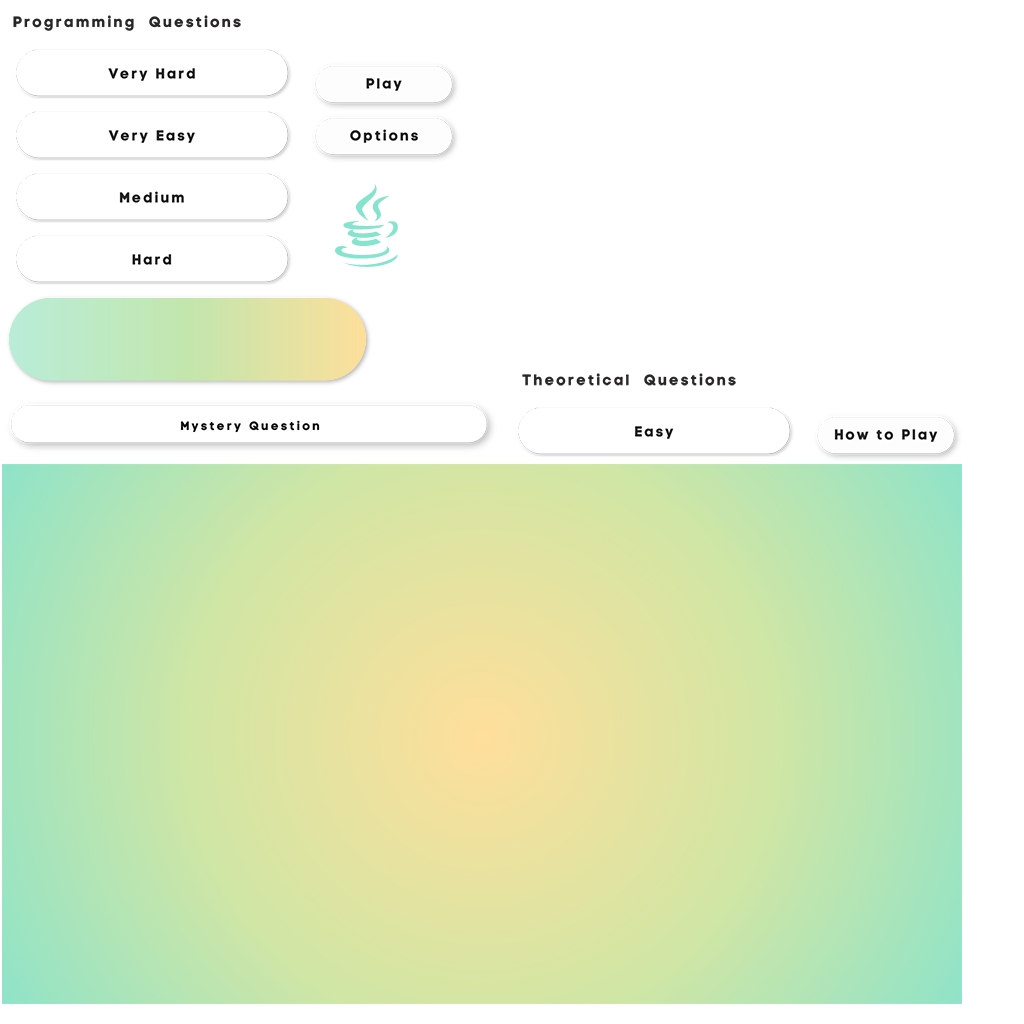
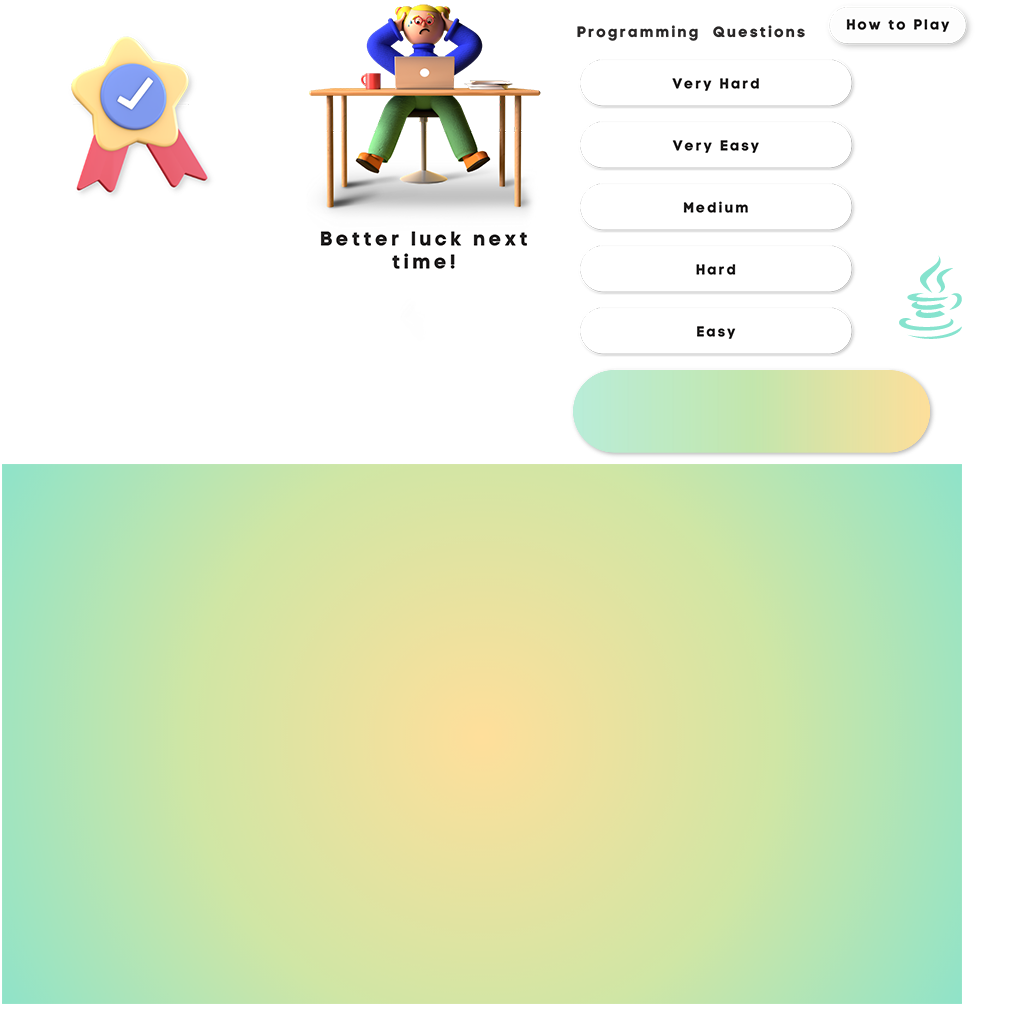
Add game over and correct answer screen

diff --git a/core/src/com/mygdx/game/CorrectAnswerScreen.java b/core/src/com/mygdx/game/CorrectAnswerScreen.java
@@ -1,0 +1,80 @@
+package com.mygdx.game;
+
+import com.badlogic.gdx.Gdx;
+import com.badlogic.gdx.InputAdapter;
+import com.badlogic.gdx.Screen;
+import com.badlogic.gdx.graphics.GL20;
+import com.badlogic.gdx.graphics.OrthographicCamera;
+import com.badlogic.gdx.graphics.g2d.SpriteBatch;
+import com.badlogic.gdx.math.Vector2;
+import com.badlogic.gdx.utils.viewport.ExtendViewport;
+
+import util.Assets;
+import util.Constants;
+import util.Util;
+
+public class CorrectAnswerScreen extends InputAdapter implements Screen {
+    private ProgrammerGame programmerGame;
+    private SpriteBatch batch;
+    private ExtendViewport viewport;
+    private OrthographicCamera camera;
+
+    public CorrectAnswerScreen(ProgrammerGame programmerGame, SpriteBatch batch){
+        this.programmerGame = programmerGame;
+        this.batch = batch;
+        camera = new OrthographicCamera(Constants.WORLD_SIZE_WIDTH, Constants.WORLD_SIZE_HEIGHT);
+        viewport = new ExtendViewport(Constants.WORLD_SIZE_WIDTH, Constants.WORLD_SIZE_HEIGHT, camera);
+        camera.position.set(viewport.getWorldWidth() / 2f, viewport.getWorldHeight() / 2f, 0);
+    }
+
+    @Override
+    public void show() {
+        Gdx.input.setInputProcessor(this);
+    }
+
+    @Override
+    public void render(float delta) {
+        viewport.apply();
+        Gdx.gl.glClearColor(
+                Constants.BACKGROUND_COLOR.r,
+                Constants.BACKGROUND_COLOR.g,
+                Constants.BACKGROUND_COLOR.b,
+                Constants.BACKGROUND_COLOR.a);
+
+        Gdx.gl.glClear(GL20.GL_COLOR_BUFFER_BIT);
+
+        batch.setProjectionMatrix(viewport.getCamera().combined);
+
+        batch.begin();
+        //bg
+        Util.drawTextureRegion(batch, Assets.instance.correctAnswerScreenAssets.normalBG, new Vector2(viewport.getCamera().viewportWidth / 2, viewport.getCamera().viewportHeight / 2), Constants.BG_CENTER);
+        Util.drawTextureRegion(batch, Assets.instance.correctAnswerScreenAssets.correctAnswerBG, new Vector2(viewport.getCamera().viewportWidth / 2, viewport.getCamera().viewportHeight / 2), Constants.GAMEOVER_BG_CENTER);
+
+        batch.end();
+    }
+
+    @Override
+    public void resize(int width, int height) {
+        viewport.update(width, height, true);
+    }
+
+    @Override
+    public void pause() {
+
+    }
+
+    @Override
+    public void resume() {
+
+    }
+
+    @Override
+    public void hide() {
+
+    }
+
+    @Override
+    public void dispose() {
+
+    }
+}

diff --git a/core/src/com/mygdx/game/GameOverScreen.java b/core/src/com/mygdx/game/GameOverScreen.java
@@ -1,0 +1,79 @@
+package com.mygdx.game;
+
+import com.badlogic.gdx.Gdx;
+import com.badlogic.gdx.InputAdapter;
+import com.badlogic.gdx.Screen;
+import com.badlogic.gdx.graphics.GL20;
+import com.badlogic.gdx.graphics.OrthographicCamera;
+import com.badlogic.gdx.graphics.g2d.SpriteBatch;
+import com.badlogic.gdx.math.Vector2;
+import com.badlogic.gdx.utils.viewport.ExtendViewport;
+
+import util.Assets;
+import util.Constants;
+import util.Util;
+
+public class GameOverScreen extends InputAdapter implements Screen {
+    private ProgrammerGame programmerGame;
+    private SpriteBatch batch;
+    private ExtendViewport viewport;
+    private OrthographicCamera camera;
+
+    public GameOverScreen(ProgrammerGame programmerGame, SpriteBatch batch){
+        this.programmerGame = programmerGame;
+        this.batch = batch;
+        camera = new OrthographicCamera(Constants.WORLD_SIZE_WIDTH, Constants.WORLD_SIZE_HEIGHT);
+        viewport = new ExtendViewport(Constants.WORLD_SIZE_WIDTH, Constants.WORLD_SIZE_HEIGHT, camera);
+        camera.position.set(viewport.getWorldWidth() / 2f, viewport.getWorldHeight() / 2f, 0);
+    }
+    @Override
+    public void show() {
+        Gdx.input.setInputProcessor(this);
+    }
+
+    @Override
+    public void render(float delta) {
+        viewport.apply();
+        Gdx.gl.glClearColor(
+                Constants.BACKGROUND_COLOR.r,
+                Constants.BACKGROUND_COLOR.g,
+                Constants.BACKGROUND_COLOR.b,
+                Constants.BACKGROUND_COLOR.a);
+
+        Gdx.gl.glClear(GL20.GL_COLOR_BUFFER_BIT);
+
+        batch.setProjectionMatrix(viewport.getCamera().combined);
+
+        batch.begin();
+        //bg
+        Util.drawTextureRegion(batch, Assets.instance.gameOverScreenAssets.normalBG, new Vector2(viewport.getCamera().viewportWidth / 2, viewport.getCamera().viewportHeight / 2), Constants.BG_CENTER);
+        Util.drawTextureRegion(batch, Assets.instance.gameOverScreenAssets.gameOverBG, new Vector2(viewport.getCamera().viewportWidth / 2, viewport.getCamera().viewportHeight / 2), Constants.GAMEOVER_BG_CENTER);
+
+        batch.end();
+    }
+
+    @Override
+    public void resize(int width, int height) {
+        viewport.update(width, height, true);
+    }
+
+    @Override
+    public void pause() {
+
+    }
+
+    @Override
+    public void resume() {
+
+    }
+
+    @Override
+    public void hide() {
+
+    }
+
+    @Override
+    public void dispose() {
+
+    }
+}

diff --git a/core/src/util/Assets.java b/core/src/util/Assets.java
@@ -17,6 +17,8 @@ import com.badlogic.gdx.math.Vector2;
 import com.badlogic.gdx.utils.Align;
 import com.badlogic.gdx.utils.Disposable;
 import com.badlogic.gdx.utils.viewport.ExtendViewport;
+import com.mygdx.game.CorrectAnswerScreen;
+import com.mygdx.game.GameOverScreen;
 import com.mygdx.game.GameplayScreen;
 
 import java.io.InputStream;
@@ -29,6 +31,8 @@ public class Assets implements Disposable, AssetErrorListener {
     public MainMenuAssets mainMenuAssets;
     public DifficultyScreenAssets difficultyScreenAssets;
     public GameplayScreenAssets gameplayScreenAssets;
+    public GameOverScreenAssets gameOverScreenAssets;
+    public CorrectAnswerScreenAssets correctAnswerScreenAssets;
     public ResourcesFilePath resourcesFilePath;
     public Font font;
 
@@ -48,6 +52,8 @@ public class Assets implements Disposable, AssetErrorListener {
         mainMenuAssets = new MainMenuAssets(atlas);
         difficultyScreenAssets = new DifficultyScreenAssets(atlas);
         gameplayScreenAssets = new GameplayScreenAssets(atlas);
+        gameOverScreenAssets = new GameOverScreenAssets(atlas);
+        correctAnswerScreenAssets = new CorrectAnswerScreenAssets(atlas);
         font = new Font();
     }
 
@@ -217,6 +223,26 @@ public class Assets implements Disposable, AssetErrorListener {
             questionHard = atlas.findRegion(Constants.QUESTIONHARD_BG);
             questionVeryHard = atlas.findRegion(Constants.QUESTIONVERYHARD_BG);
             answerBubbleButton = atlas.findRegion(Constants.ANSWERBUBBLE_BUTTON);
+        }
+    }
+
+    public class GameOverScreenAssets{
+        public final TextureAtlas.AtlasRegion normalBG;
+        public final TextureAtlas.AtlasRegion gameOverBG;
+
+        public GameOverScreenAssets(TextureAtlas atlas){
+            normalBG = atlas.findRegion(Constants.NORMAL_BG);
+            gameOverBG = atlas.findRegion(Constants.GAMEOVER_BG);
+        }
+    }
+
+    public class CorrectAnswerScreenAssets{
+        public final TextureAtlas.AtlasRegion normalBG;
+        public final TextureAtlas.AtlasRegion correctAnswerBG;
+
+        public CorrectAnswerScreenAssets(TextureAtlas atlas){
+            normalBG = atlas.findRegion(Constants.NORMAL_BG);
+            correctAnswerBG = atlas.findRegion(Constants.CORRECTANSWER_BG);
         }
     }
 }

diff --git a/core/src/com/mygdx/game/ProgrammerGame.java b/core/src/com/mygdx/game/ProgrammerGame.java
@@ -31,8 +31,7 @@ public class ProgrammerGame extends Game {
 		} catch(Exception e){
 			Gdx.app.log(TAG, "NOTHING HAPPENED");
 		}
-//		showMainMenuScreen();
-		showJigsawScren();
+		showMainMenuScreen();
 	}
 
 	@Override
@@ -49,6 +48,14 @@ public class ProgrammerGame extends Game {
 
 	public void showGameplayScreen(Difficulty difficulty){
 		setScreen(new GameplayScreen(this, difficulty, this.batch));
+	}
+
+	public void showGameOverScreen(){
+		setScreen(new GameOverScreen(this, this.batch));
+	}
+
+	public void showCorrectAnswerScreen(){
+		setScreen(new CorrectAnswerScreen(this, this.batch));
 	}
 
 	public void showJigsawScren(){

diff --git a/core/src/util/Constants.java b/core/src/util/Constants.java
@@ -62,5 +62,13 @@ public class Constants {
     public static final float QUESTIONBUBBLE_WIDTH = 750;
     public static final float QUESTIONBUBBLE_HEIGHT = 100;
 
+    //GameOver Screen Assets
+    public static final String GAMEOVER_BG = "gameOver-bg";
+    public static final Vector2 GAMEOVER_BG_CENTER = new Vector2(140, 230);
+
+    //CorrectAnswer Screen Assets
+    public static final String CORRECTANSWER_BG = "correctAnswer-bg";
+    public static final Vector2 CORRECTANSWER_BG_CENTER = new Vector2(140, 230);
+
 
 }

diff --git a/core/src/com/mygdx/game/GameplayScreen.java b/core/src/com/mygdx/game/GameplayScreen.java
@@ -260,7 +260,9 @@ public class GameplayScreen extends InputAdapter implements Screen {
             } else if (this.difficulty == Difficulty.PROGRAMMING_VERY_HARD) {
                 Gdx.app.log(TAG, "PROGRAMMING VERY HARD CORRECT");
             }
+            programmerGame.showCorrectAnswerScreen();
         } else {
+            programmerGame.showGameOverScreen();
             Gdx.app.log(TAG, "WRONG");
         }
     }

diff --git a/core/src/com/mygdx/game/MainMenuScreen.java b/core/src/com/mygdx/game/MainMenuScreen.java
@@ -99,7 +99,6 @@ public class MainMenuScreen extends InputAdapter implements Screen {
     @Override
     public void resize(int width, int height) {
         viewport.update(width, height, true);
-        camera.update();
     }
 
     @Override
